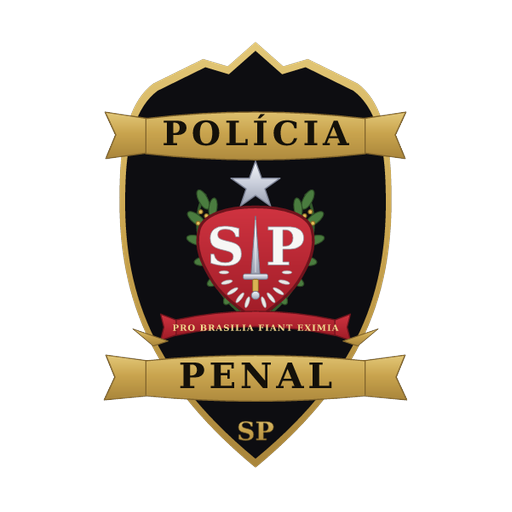
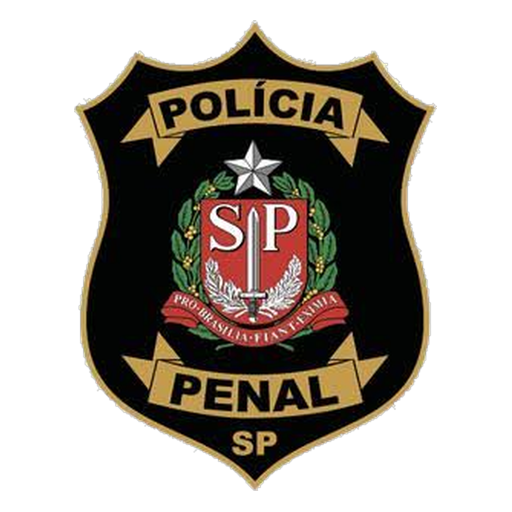
feat: usa o brasão oficial correto (brasão PP.jpg) como marca d'água da tela inicial
- substitui o vetor anterior pelo brasão oficial em alta resolução com fundo transparente (PNG 711x921)
- marca d'água centralizada no painel esquerdo, opacidade .30
- ícone/favicon/manifest atualizados com o brasão correto (PNG 512x512)
- mantém o arquivo original brasão PP.jpg no repositório

diff --git a/index.html b/index.html
@@ -7,7 +7,6 @@
   <meta name="description" content="Sistema interno de gestão de frota do Núcleo de Infraestrutura e Logística">
   <meta name="theme-color" content="#0f172a">
   <link rel="manifest" href="manifest.json">
-  <link rel="icon" type="image/svg+xml" href="images/brasao-policia-penal-sp.svg">
   <link rel="icon" type="image/png" href="images/brasao-policia-penal-sp-512.png">
   <link rel="apple-touch-icon" href="images/brasao-policia-penal-sp-512.png">
   <link rel="stylesheet" href="css/style.css">
@@ -17,7 +16,7 @@
   <!-- ================= TELA DE LOGIN ================= -->
   <div class="login-screen" id="login-screen" style="display:grid" aria-label="Acesso ao sistema">
     <section class="login-brand-panel" aria-label="Identificação do sistema">
-      <img src="images/brasao-policia-penal-sp.svg" alt="Brasão da Polícia Penal de São Paulo" class="login-watermark" aria-hidden="true">
+      <img src="images/brasao-policia-penal-sp.png" alt="Brasão da Polícia Penal de São Paulo" class="login-watermark" aria-hidden="true">
       <div class="login-brand-copy">
         <h1>Gestão de Frota</h1>
         <p>Núcleo de Infraestrutura e Logística</p>

diff --git a/css/style.css b/css/style.css
@@ -88,8 +88,8 @@ a:focus-visible {
   width: min(72%, 520px);
   max-height: 86%;
   object-fit: contain;
-  opacity: .22;
-  filter: saturate(.9) contrast(1.15) drop-shadow(0 6px 18px rgba(0, 0, 0, .35));
+  opacity: .3;
+  filter: saturate(1.02) contrast(1.08) drop-shadow(0 6px 18px rgba(0, 0, 0, .35));
   transform: translate(-50%, -50%);
   pointer-events: none;
   user-select: none;
